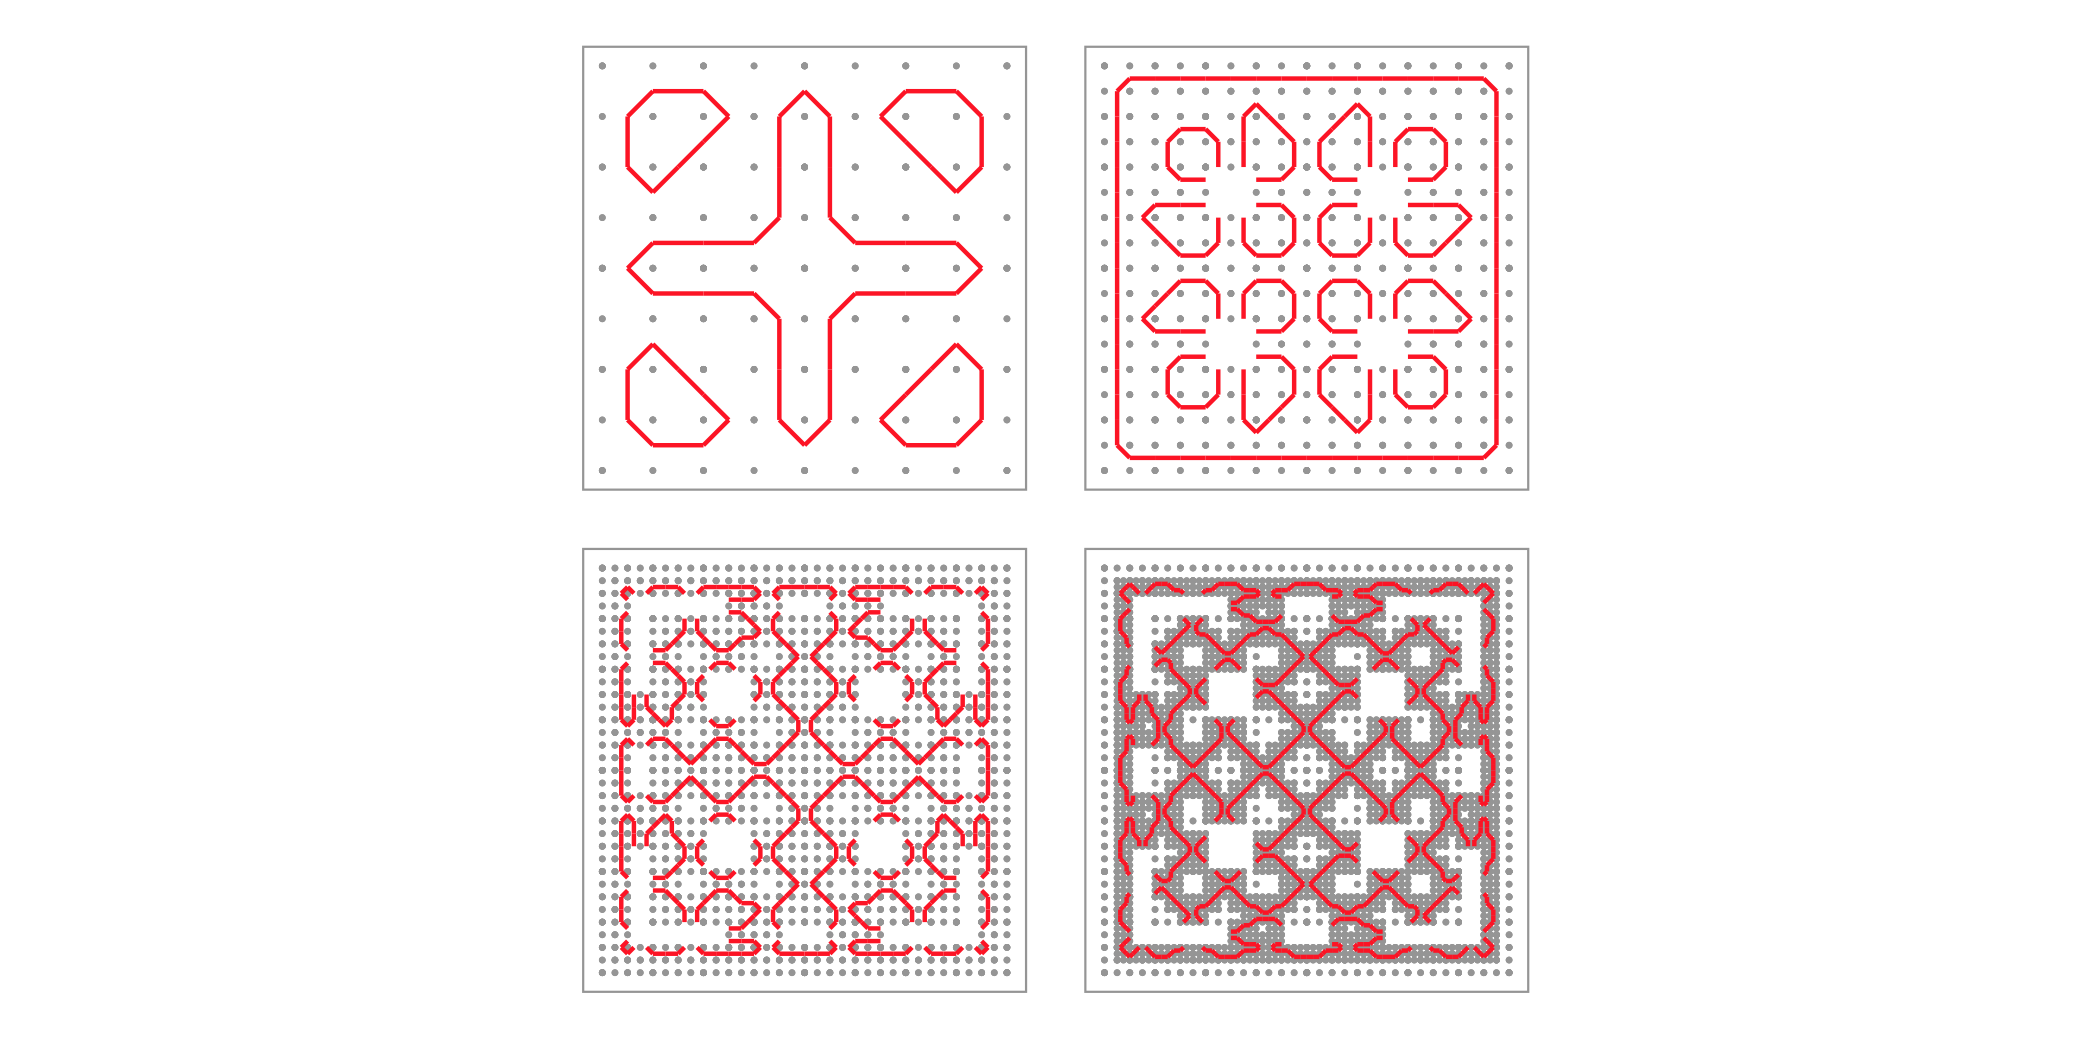
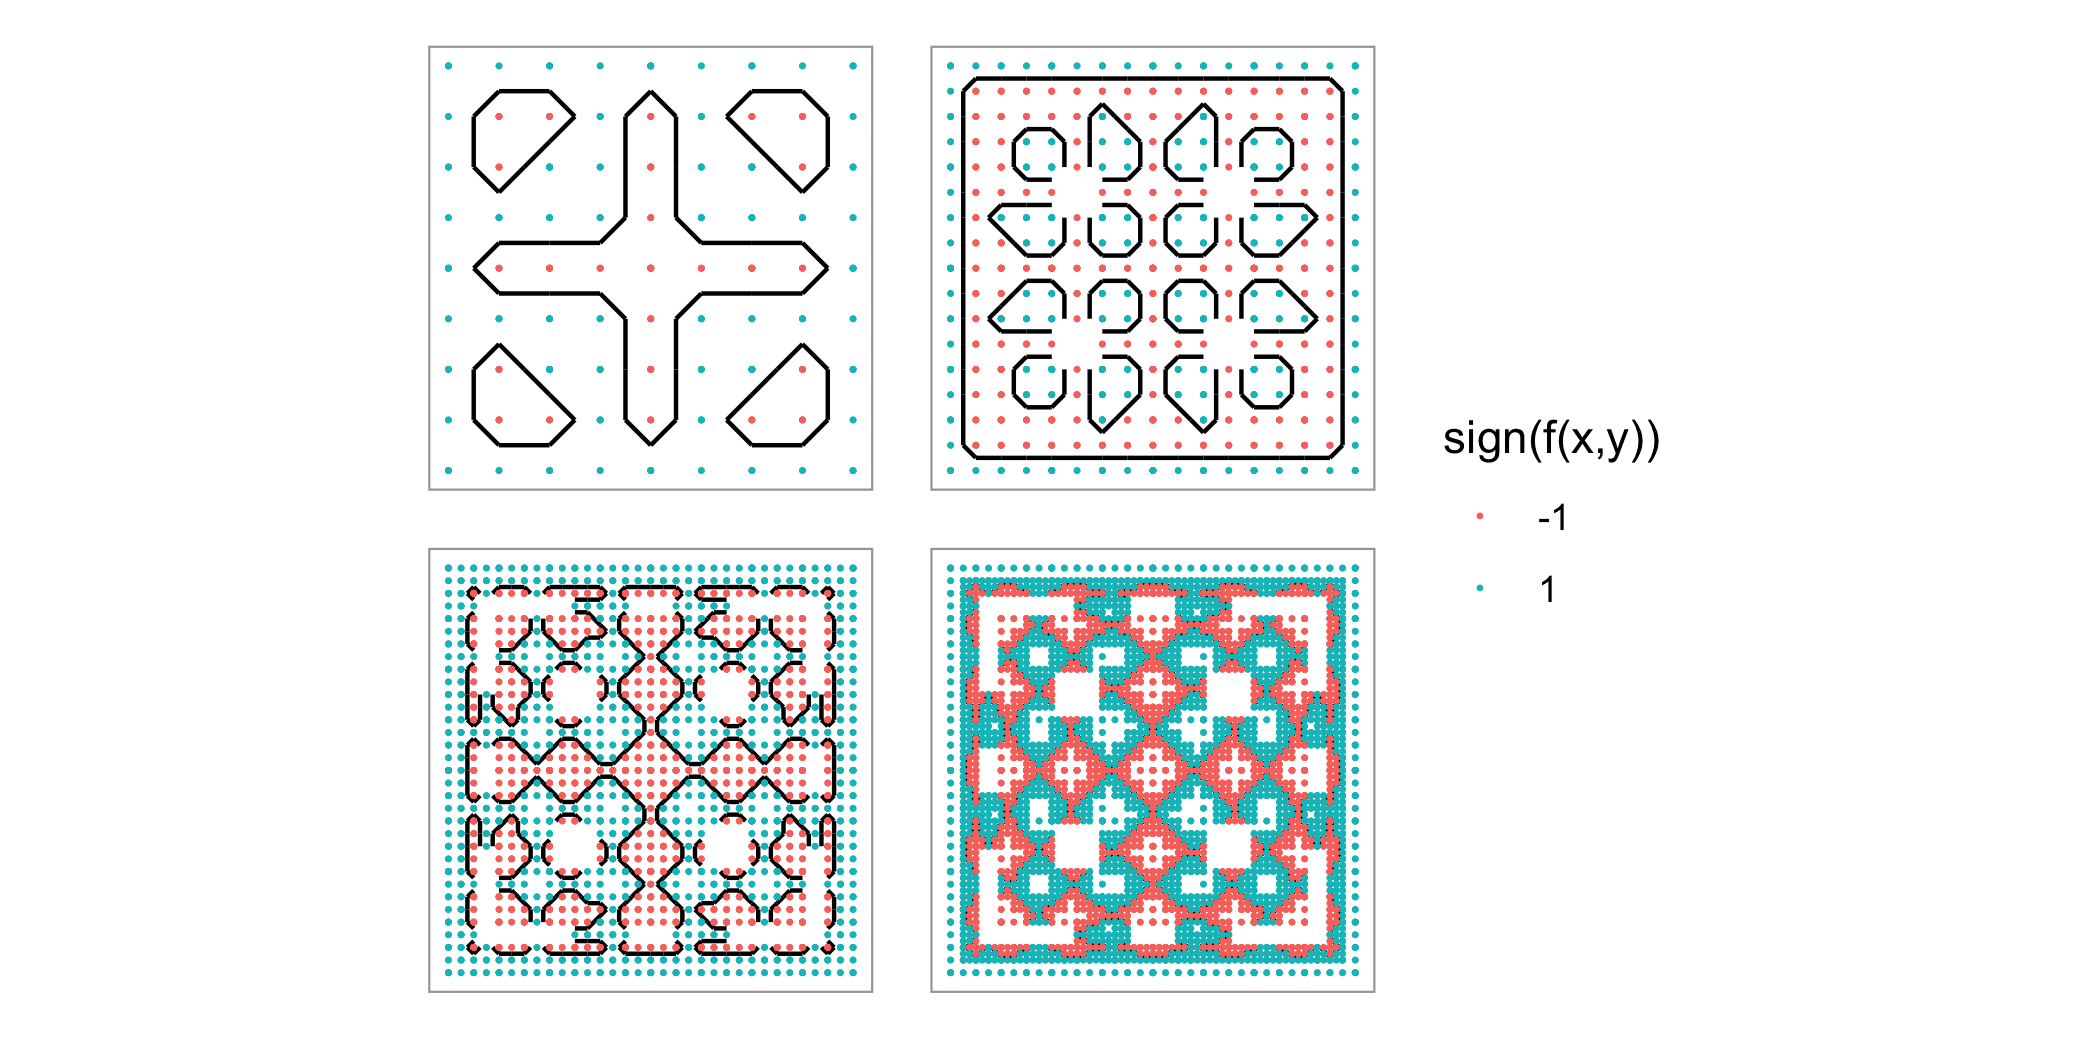
update color in some readme figs

Changed region(s): [[0.1857, 0.5181, 0.7429, 0.9448], [0.2167, 0.0305, 0.8048, 0.4571], [0.2476, 0.4571, 0.2786, 0.4876]]

diff --git a/README.md b/README.md
@@ -105,7 +105,6 @@ line due to being all negative or positive are filtered out.
 
 ``` r
 library("ggplot2"); theme_set(theme_minimal())
-#> Warning: package 'ggplot2' was built under R version 4.3.2
 theme_update(panel.grid.minor = element_blank())
 library("patchwork")
 
@@ -114,20 +113,22 @@ plot_contour_at_depth <- function(depth, xlim = c(-2, 2), ylim = c(-2, 2), min_d
       return(
         depth |> 
           lapply(plot_contour_at_depth, xlim, ylim, min_depth) |> 
-          Reduce(`+`, x = _)
+          Reduce(`+`, x = _) + 
+          patchwork::plot_layout(guides = "collect")
       )
   
   biroot_lines(f, xlim, ylim, max_depth = depth, min_depth = min_depth) |> 
     ggplot(aes(x, y, group = id)) +
+      geom_line(color = "black") +
       geom_point(
-        aes(x, y), size = .1, color = "gray65", inherit.aes = FALSE, 
+        aes(x, y, color = factor(sign(value))), size = .1, inherit.aes = FALSE, 
         data = biroot(f, xlim, ylim, depth, min_depth = min_depth)
       ) +
-      geom_line(color = "firebrick1") +
       theme(
         axis.title = element_blank(), axis.text = element_blank(), 
         panel.grid = element_blank(), panel.background = element_rect(color = "gray65")
       ) +
+      labs(color = "sign(f(x,y))") +
       coord_equal(xlim = xlim, ylim = ylim)
 }
 
